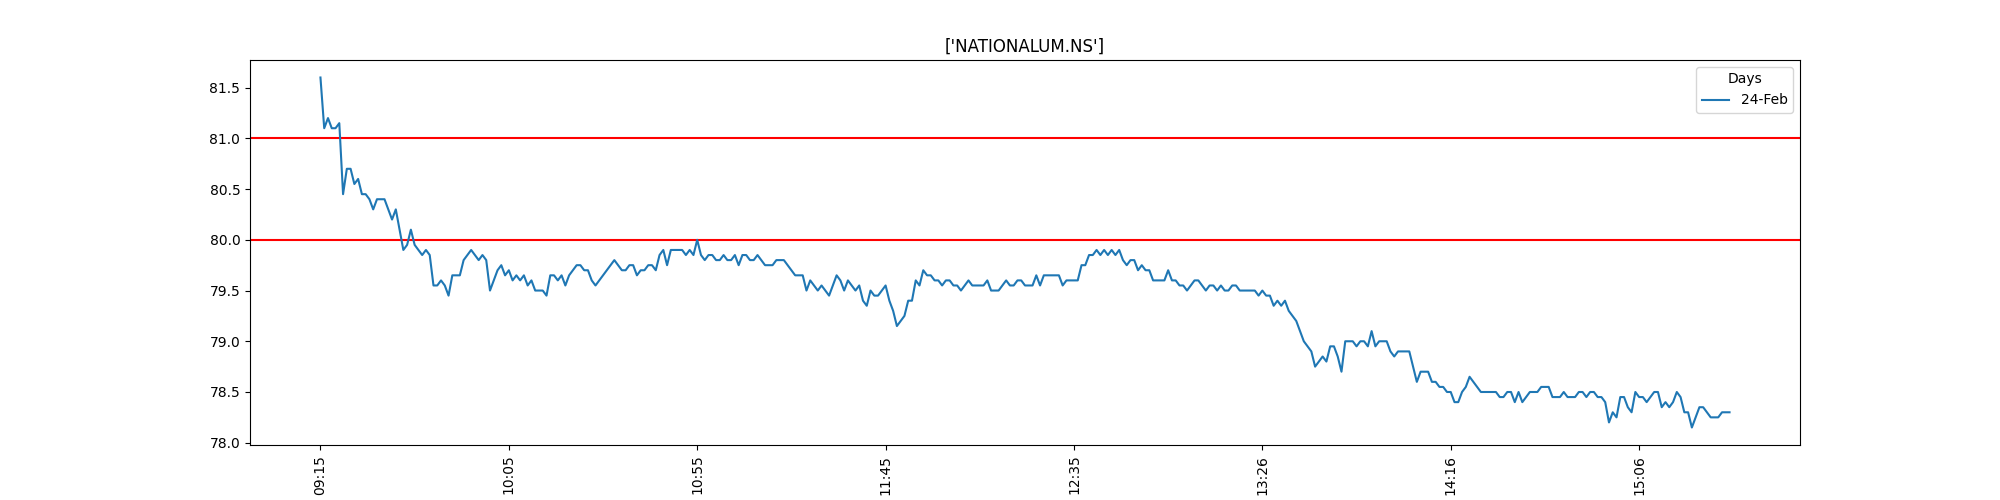
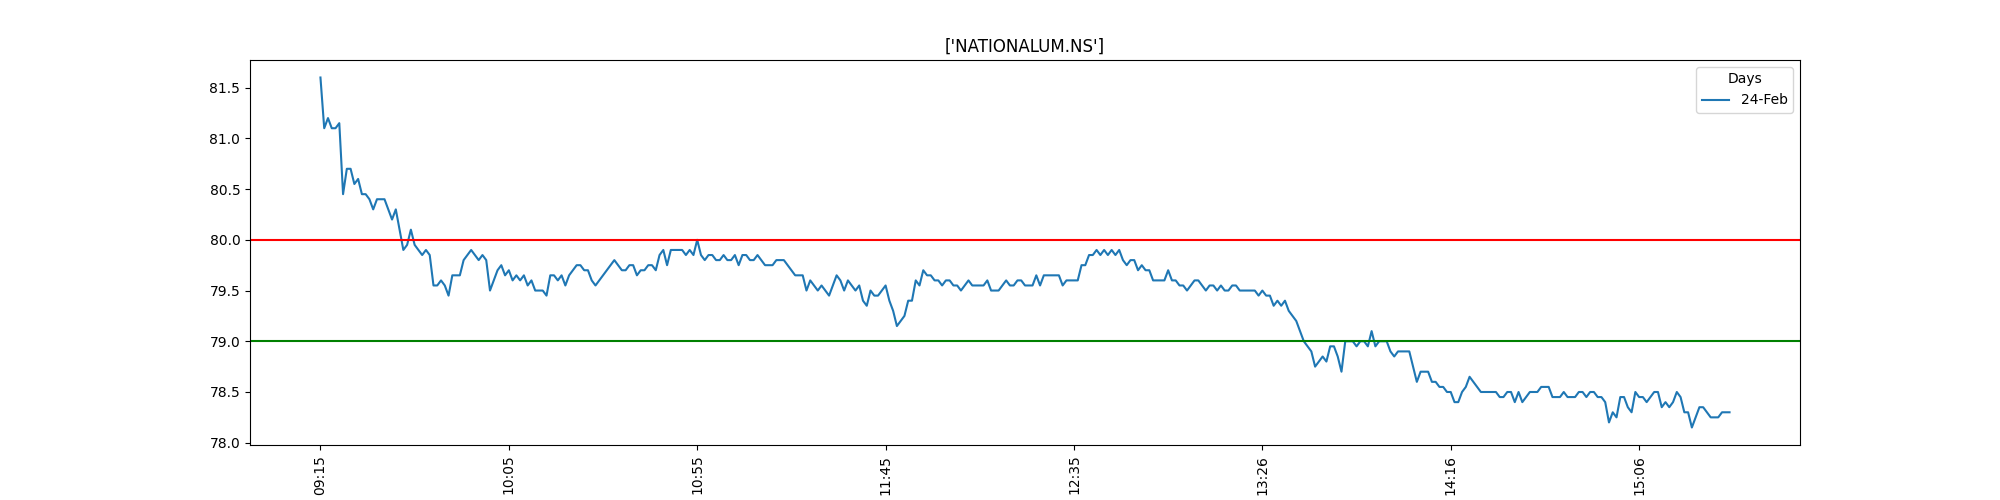
4:14 26th Feb

Changed region(s): [[0.124, 0.66, 0.899, 0.69], [0.124, 0.27, 0.899, 0.3]]

diff --git a/templates/intraday.html b/templates/intraday.html
@@ -240,19 +240,24 @@ border-radius:15px;
 
 <div>
   <form action="/set_chart" method="POST">
+    
             <span>Select Company Code</span>
             <select name="stockname" id="stockname">
                 {% for i in comp_code %}
                 <option value="{{i}}">{{i}}</option>
                 {% endfor %}
             </select>
-            <span>From </span><input type="date" name="from_dt" id="from_dt">
-            <span>to </span><input type="date" name="to_dt" id="to_dt" value="To">
+            <span>No of Days (Only for Stock) </span><input type="text" name="stock_days" id="stock_days">
+            <span>No of Days (Only for indics) </span><input type="text" name="indics_days" id="indics_days">
+            
             <br>
             <span>Set Target line</span>
             <br>
-            Max<input type="text" name="max_val" id="max_val">Min<input type="text" name="min_val" id="min_val">
+            Max<input type="text" name="max_val" id="max_val" value="{{session.max_val}}">
+            <br>
+            Min<input type="text" name="min_val" id="min_val" value="{{session.min_val}}">
             <input type="submit" value="Generate Chart">
+    
             
  </form>
  <a href="{{url_for('refresh_stock')}}"><button>Refresh</button></a>

diff --git a/Python_func/chart.py b/Python_func/chart.py
@@ -21,11 +21,13 @@ import io
 
 def indics_chart(conn):
     query='''
-            select distinct datetime as Datetime,open,high,low,close as Close,'Adj Close',volume,company_name,company_code from stock_data_interval  where company_code='^NSEI';
+            select distinct datetime as Datetime,open,high,low,close as Close,'Adj Close',volume,company_name,company_code from stock_data_interval  
+            where company_code='^NSEI'
+            and datetime>=concat(date(date_add(now(),interval -2 day)),' 00:00:00');
             '''
     indics_df=pd.DataFrame(conn.execute(query))
 
-    indics_df=indics_df[indics_df['Datetime']>=indics_df['Datetime'].max().strftime('%Y-%m-%d')+' 00:00:00']
+    #indics_df=indics_df[indics_df['Datetime']>=indics_df['Datetime'].max().strftime('%Y-%m-%d')+' 00:00:00']
 
     indics_df['Days']=indics_df['Datetime'].dt.strftime('%d-%b')
     indics_df['Hour_Min']=indics_df['Datetime'].dt.strftime('%H:%M')
@@ -41,6 +43,8 @@ def indics_chart(conn):
 
 def create_chart(conn,stockname,max_val,min_val):
     #print('create chart 2',stockname)
+
+
     query=f'''
             select distinct datetime as Datetime,open,high,low,close as Close,'Adj Close',volume,company_name,company_code from stock_data_interval  
             where datetime>=concat(date(date_add(now(),interval -5 day)),' 00:00:00')
@@ -86,22 +90,31 @@ def create_chart(conn,stockname,max_val,min_val):
     
     
     try:
+        
+        stock_df=indics_df[indics_df['Datetime']>=datetime.today().strftime('%Y-%m-%d')+' 00:00:00']
+        stock_df.pivot_table(index='Hour_Min',columns='Days',values='Close').plot(kind='line',ax=ax,rot=90)
         if max_val!='' or min_val!='':
             
             plt.axhline(y = float(max_val),color='r')
-            plt.axhline(y = float(min_val),color='r')
+            plt.axhline(y = float(min_val),color='g')
         else:
-            plt.axhline(y = float(indics_df['Close'].max()),color='r')
-            plt.axhline(y = float(indics_df['Open'].max()),color='g')
+            plt.axhline(y = float(stock_df['Close'].max()),color='r')
+            plt.axhline(y = float(stock_df['Close'].min()),color='green')
 
-        stock_df=indics_df[indics_df['Datetime']>=datetime.today().strftime('%Y-%m-%d')+' 00:00:00']
-        stock_df.pivot_table(index='Hour_Min',columns='Days',values='Close').plot(kind='line',ax=ax,rot=90)
         plt.title(title_name)
         plt.savefig('static/chart_img/selected_chart2.png')
     except:
         
         stock_df=indics_df[indics_df['Datetime']>=df3['Datetime'].max().strftime('%Y-%m-%d')+' 00:00:00']
         stock_df.pivot_table(index='Hour_Min',columns='Days',values='Close').plot(kind='line',ax=ax,rot=90)
+        if max_val!='' or min_val!='':
+            
+            plt.axhline(y = float(max_val),color='r')
+            plt.axhline(y = float(min_val),color='g')
+        else:
+            plt.axhline(y = float(stock_df['Close'].max()),color='r')
+            plt.axhline(y = float(stock_df['Close'].min()),color='green')
+
         plt.title(title_name)
         plt.savefig('static/chart_img/selected_chart2.png')
     

diff --git a/app.py b/app.py
@@ -45,9 +45,18 @@ def set_chart():
             stockname=request.form.get('stockname')
             max_val=request.form.get('max_val')
             min_val=request.form.get('min_val')
+            # stock_days=request.form.get('stock_days')
+            # indics_days=request.form.get('indics_days')
+
+
             session['stockname']=stockname
             session['max_val']=max_val
             session['min_val']=min_val
+
+            
+            # session['stock_days']=stock_days
+            # session['indics_days']=indics_days
+
             with mysql_func().connect() as conn:
                 create_chart(conn,stockname,max_val,min_val)
                 
@@ -313,6 +322,8 @@ def login_check():
 @app.route('/logout')    
 def logout():
     session['fullname']=None
+    session['max_val']=None
+    session['min_val']=None
     #return render_template('index.html')
     return redirect("/")
 
